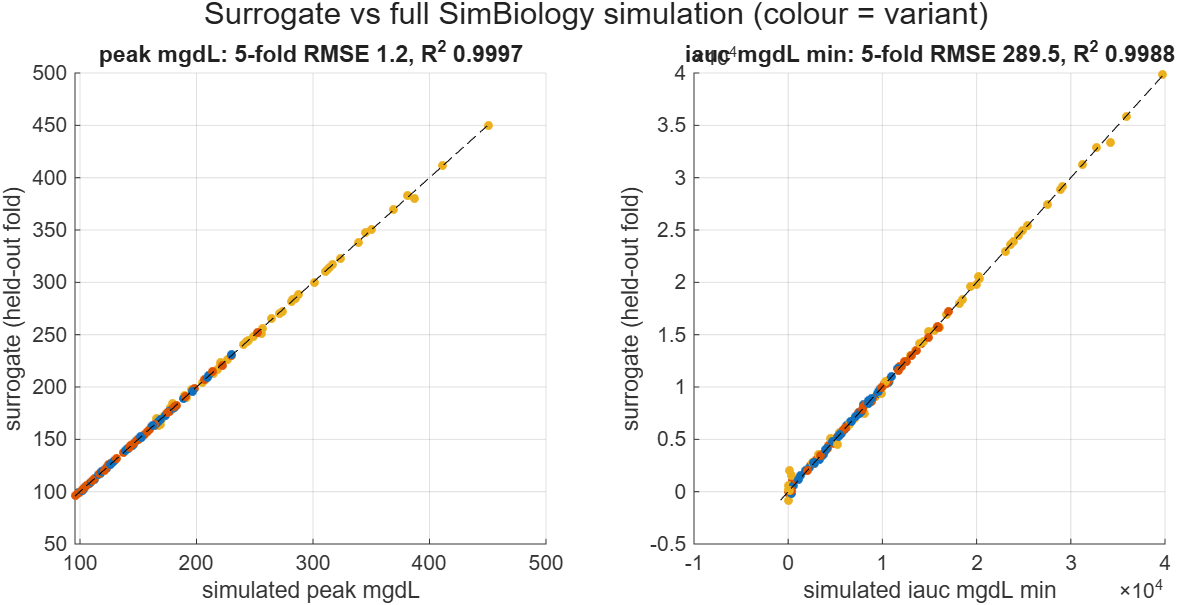
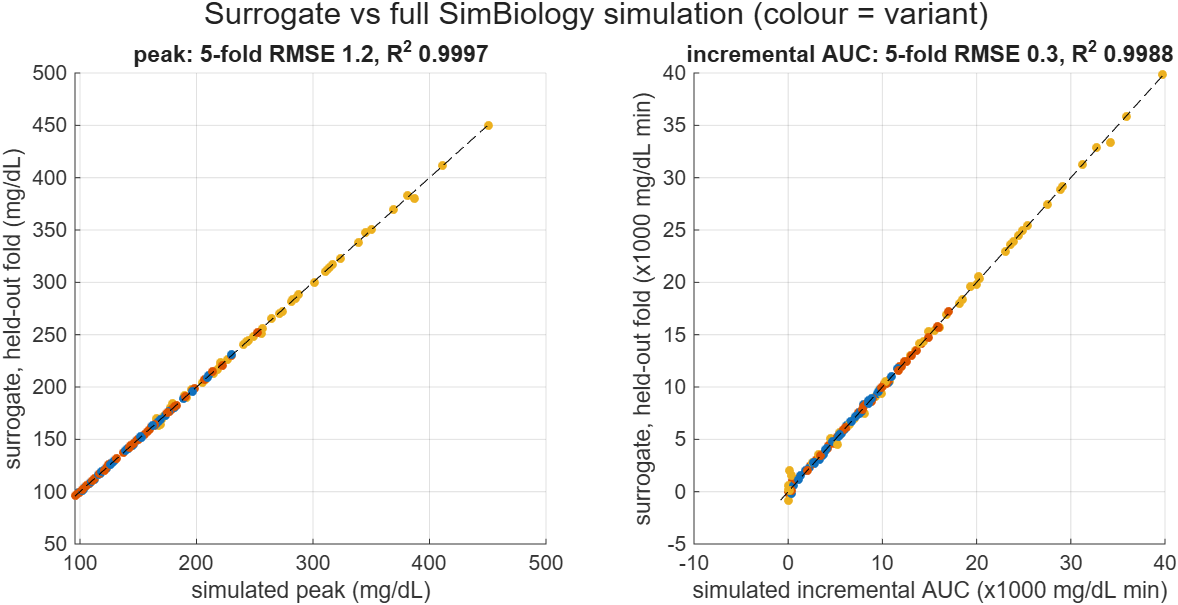
[A] surrogate figure: AUC panel in thousands, no axis exponent under the title

diff --git a/matlab/surrogate/fit_surrogate.m b/matlab/surrogate/fit_surrogate.m
@@ -35,10 +35,13 @@ for k = 1:numel(targets)
         'cv_rmse', rmse, 'cv_r2', r2, 'n', height(T));
     ax = subplot(1, 2, k, 'Parent', fig); hold(ax, 'on');
     set(ax, 'Color', 'w', 'XColor', [0.2 0.2 0.2], 'YColor', [0.2 0.2 0.2]);
-    scatter(ax, y, pred, 18, double(T.variant), 'filled'); colormap(ax, lines(3));
-    lim = [min([y; pred]) max([y; pred])]; plot(ax, lim, lim, 'k--');
-    xlabel(ax, sprintf('simulated %s', strrep(targets{k}, '_', ' '))); ylabel(ax, 'surrogate (held-out fold)');
-    title(ax, sprintf('%s: 5-fold RMSE %.1f, R^2 %.4f', strrep(targets{k}, '_', ' '), rmse, r2)); grid(ax, 'on'); axis(ax, 'square');
+    scale = 1; unit = 'mg/dL'; if k == 2, scale = 1000; unit = 'x1000 mg/dL min'; end   % keep the axes free of x10^4 exponents
+    scatter(ax, y / scale, pred / scale, 18, double(T.variant), 'filled'); colormap(ax, lines(3));
+    lim = [min([y; pred]) max([y; pred])] / scale; plot(ax, lim, lim, 'k--');
+    ax.XAxis.Exponent = 0; ax.YAxis.Exponent = 0;
+    name = strrep(strrep(targets{k}, 'iauc_mgdL_min', 'incremental AUC'), 'peak_mgdL', 'peak');
+    xlabel(ax, sprintf('simulated %s (%s)', name, unit)); ylabel(ax, sprintf('surrogate, held-out fold (%s)', unit));
+    title(ax, sprintf('%s: 5-fold RMSE %.1f, R^2 %.4f', name, rmse / scale, r2)); grid(ax, 'on'); axis(ax, 'square');
     fprintf('fit_surrogate: %s  CV RMSE %.2f  R^2 %.4f  (n = %d)\n', targets{k}, rmse, r2, height(T));
 end
 sgtitle(fig, 'Surrogate vs full SimBiology simulation (colour = variant)');
